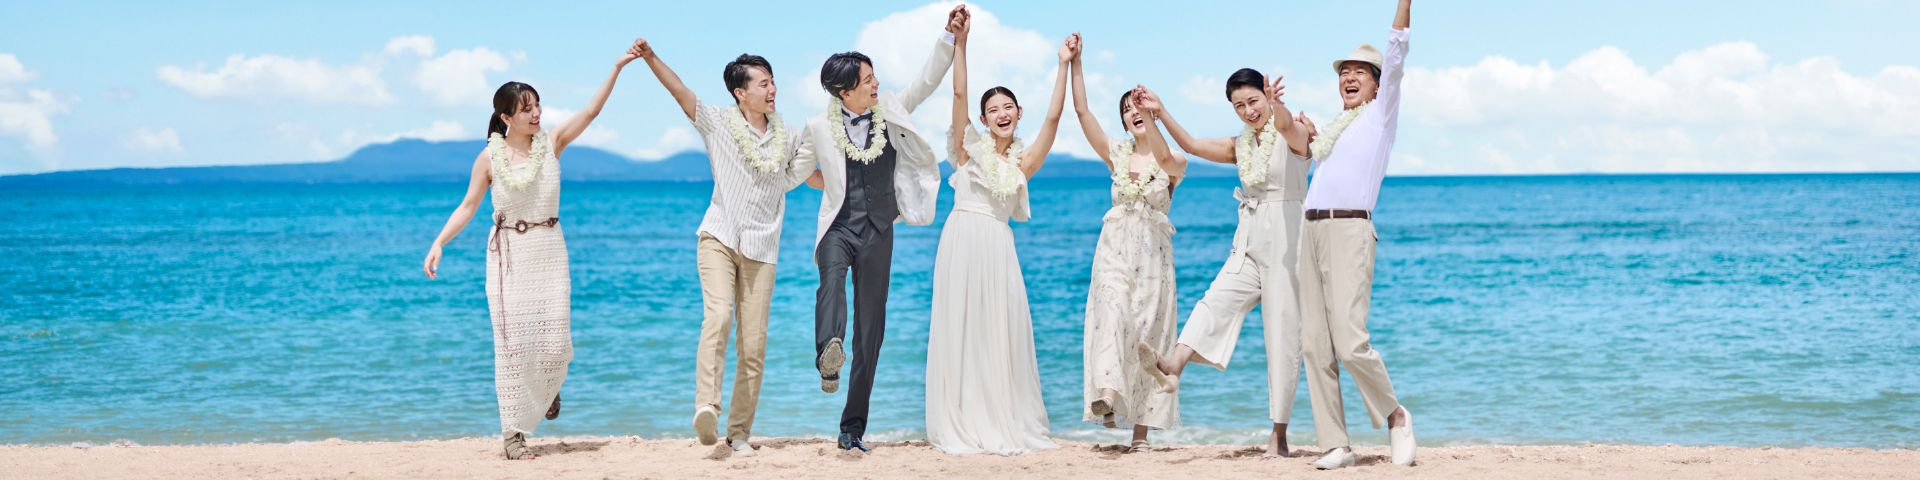
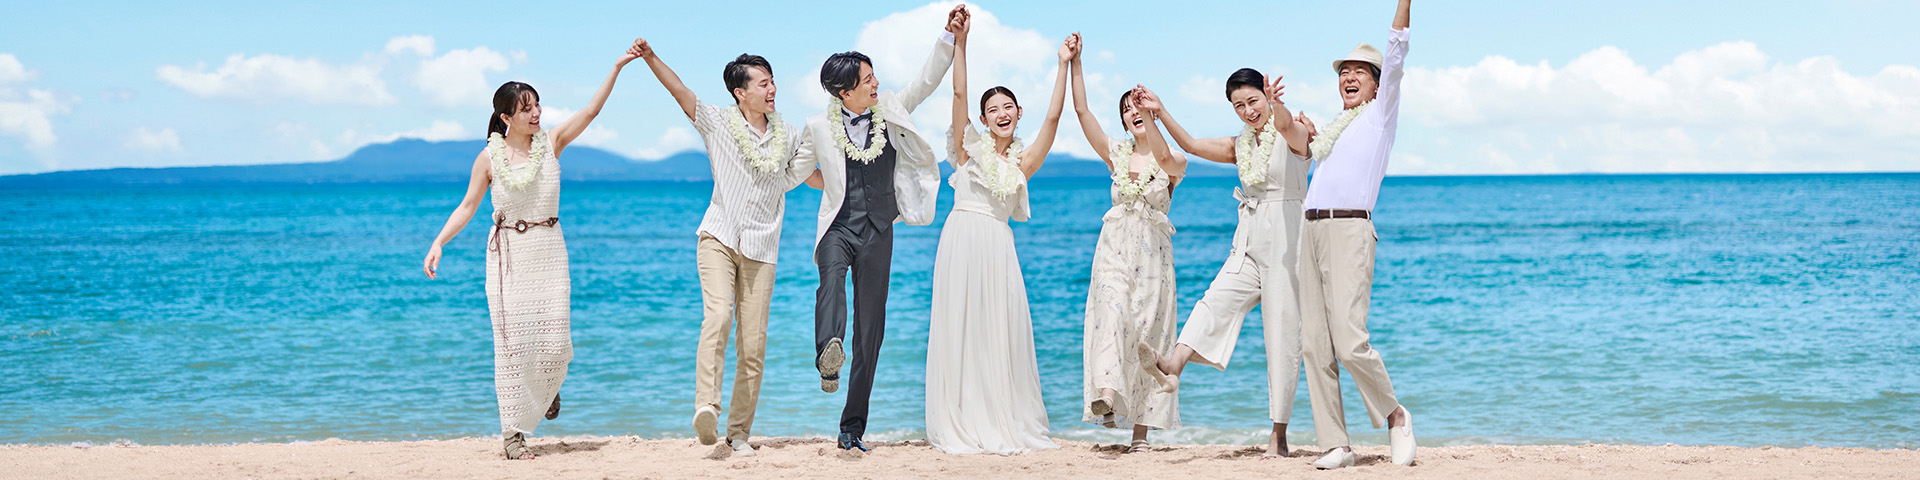
-dev：当日の過ごし方ページ 修正分

diff --git a/theme/andresortwedding-ver1.0/assets/sass/pg/_pgWeddingDay.scss b/theme/andresortwedding-ver1.0/assets/sass/pg/_pgWeddingDay.scss
@@ -971,7 +971,7 @@
             }
             &::before {
               aspect-ratio: 1 / 1;
-              background-color: $color-org-1;
+              background-color: $color-pnk-1;
               content: "";
               display: block;
               margin-top: 2.16%;
@@ -1032,7 +1032,7 @@
       }
     }
     &::before {
-      background-color: $color-org-1;
+      background-color: $color-pnk-1;
       content: "";
       display: block;
       height: 100%;
@@ -1051,6 +1051,7 @@
   }
   .schedule__notes {
     font-size: 12px;
+    font-size: clamp(0px,2.89vw,12px);
     margin-top: 48px;
     text-align: right;
     @include bp(m) {
@@ -1201,8 +1202,11 @@
         font-size: 16px;
         line-height: 1.7;
         margin-top: 12px;
+        text-align: left;
         @include bp(m) {
           font-size: 1.11vw;
+          // font-size: clamp(0px,1.11vw,16px);
+          letter-spacing: 5%;
         }
       }
       &:last-of-type {
@@ -1216,6 +1220,10 @@
   }
 }
 .pgWeddingDay__after {
+  padding-top: 0;
+  @include bp(m) {
+    padding-top: 12rem;
+  }
   &-ls {
     flex-direction: column;
     margin-top: 48px;
@@ -1284,8 +1292,11 @@
         font-size: 16px;
         line-height: 1.7;
         margin-top: 12px;
+        text-align: left;
         @include bp(m) {
           font-size: 1.11vw;
+          // font-size: clamp(0px,1.11vw,16px);
+          letter-spacing: 5%;
         }
       }
       &:last-of-type {
@@ -1383,10 +1394,14 @@
               width: auto;
             }
             p {
-              font-size: 2.89vw;
+              background-color: $color_beg-2;
+              border-radius: 1.44vw;
+              font-size: clamp(12px,2.89vw,2.89vw);
               font-weight: 600;
               text-align: center;
               @include bp(m) {
+                background-color: transparent;
+                border-radius: 0;
                 font-size: 1.11vw;
               }
             }
@@ -1413,6 +1428,11 @@
               background-image: url(../images/weddingDay/bg_comment_pc_01.png);
               margin-right: 4.42%;
               width: 78.59%;
+            }
+            br {
+              @media screen and (max-width: 379px) {
+                display: none !important;
+              }
             }
           }
           .bg-pc-2 {
@@ -1446,6 +1466,11 @@
               margin-right: 6.32%;
               width: 70.78%;
             }
+            br {
+              @media screen and (max-width: 342px) {
+                display: none !important;
+              }
+            }
           }
           .bg-pc-6 {
             @include bp(m) {
@@ -1461,12 +1486,32 @@
           @include bp(m) {
             margin-top: 3.47vw;
           }
+          .txt {
+            p {
+              margin-left: auto;
+              width: 96.5%;
+              @include bp(m) {
+                margin-left: 0;
+                width: 100%;
+              }
+            }
+          }
         }
         &__right {
           flex-direction: row-reverse;
           margin-top: 12px;
           @include bp(m) {
             margin-top: 3.47vw;
+          }
+          .txt {
+            p {
+              margin-right: auto;
+              width: 96.5%;
+              @include bp(m) {
+                margin-right: 0;
+                width: 100%;
+              }
+            }
           }
         }
       }
@@ -1519,6 +1564,7 @@
         font-size: 16px;
         line-height: 1.7;
         margin-top: 24px;
+        text-align: left;
         @include bp(m) {
           font-size: clamp(0px,1.25vw,18px);
           margin-top: 32px;
@@ -1606,18 +1652,22 @@
             width: max-content;
           }
           li {
-            align-items: center;
+            align-items: baseline;
             column-gap: 8px;
             margin-top: 8px;
+            @include bp(m) {
+              align-items: center;
+            }
             &::before {
               aspect-ratio: 1 / 1;
               background-color: black;
               content: "";
               display: block;
-              transform: rotate(45deg);
+              transform: translate(-50% , -50%) rotate(45deg);
               width: 6.73px;
               @include bp(m) {
                 max-width: 6px;
+                transform: rotate(45deg);
                 width: 0.46vw;
               }
             }
@@ -1801,9 +1851,10 @@
       font-size: 16px;
       line-height: 2;
       margin-top: 24px;
+      text-align: left;
       @include bp(m) {
-        text-align: center;
         margin-top: 0;
+        text-align: center;
       }
     }
   }

diff --git a/theme/andresortwedding-ver1.0/assets/sass/glb/_nav.scss b/theme/andresortwedding-ver1.0/assets/sass/glb/_nav.scss
@@ -505,6 +505,8 @@
                   backdrop-filter: none;
                   backdrop-filter: none;
                   background-color: rgba($color: $color_wht-1, $alpha: .05);
+                  padding: 1.16% 3.17%;
+                  width: auto;
                 }
                 &.jp {
                   font-size: clamp(0px,4.83vw,20px);
@@ -547,6 +549,11 @@
               &.area {
                 &::after {
                   background-image: url(../images/header/bg_feature_sp_03.jpg);
+                }
+              }
+              &.weddingDay {
+                &::after {
+                  background-image: url(../images/header/bg_feature_sp_04.jpg);
                 }
               }
               &:hover {

diff --git a/theme/andresortwedding-ver1.0/components/pgWeddingDay/schedule.php b/theme/andresortwedding-ver1.0/components/pgWeddingDay/schedule.php
@@ -93,8 +93,8 @@
         リゾートウェディングの当日は、朝の支度から夜のディナーまで、まる1日かけてゆったり進むのが魅力。<br/>
         朝から夜までの過ごし方を、時間を追ってご紹介します。
       </p>
-			<h2 class="pgWeddingDay_head_ttl cls-org">
-				<img src="<?php echo esc_url(get_theme_file_uri('assets/images/weddingDay/nav_icon_ring-2.svg')); ?>" alt="アイコン">
+			<h2 class="pgWeddingDay_head_ttl cls-pnk">
+				<img src="<?php echo esc_url(get_theme_file_uri('assets/images/weddingDay/nav_icon_ring.svg')); ?>" alt="アイコン">
 				<span>【早見表】<br class="sp">リゾートウェディング挙式<br class="sp">当日の運び</span>
 			</h2>
 			<p class="pgWeddingDay_head_txt">まずは挙式当日の過ごし方を、早見表でざっくりつかんでみましょう。下記はリゾートウェディングでの一般的なタイムラインです。</p>
@@ -131,7 +131,7 @@
       </ul>
     </div>
     <div class="fade-anime" data-fade="fade-up">
-      <p class="schedule__notes">※上記は一例です。挙式スタイルや会場・演出内容によって時間は変動します。</p>
+      <p class="schedule__notes">※上記は一例です。<br class="sp"/>挙式スタイルや会場・演出内容によって時間は変動します。</p>
       <p class="schedule__summary">
         近場ウェディングでは当日が3〜4時間ほどでお開きになるのに対し、リゾートウェディングは滞在中まるごとが結婚式の時間。<br/>
         <span class="sp-inline">&nbsp;</span><br class="sp"/>

diff --git a/theme/andresortwedding-ver1.0/components/pgWeddingDay/night.php b/theme/andresortwedding-ver1.0/components/pgWeddingDay/night.php
@@ -6,7 +6,7 @@
       'title-jp' => 'ハワイ',
       'title-en' => 'Hawaii',
       'catch' => '街の夜景とハワイアングルメで華やかに',
-      'lead' => '挙式後はワイキキの街へ。海沿いのレストランやライトアップされた街並みで、にぎやかな夜を満喫できます。',
+      'lead' => '挙式後はワイキキの街へ。<br class="sp"/>海沿いのレストランやライトアップされた街並みで、にぎやかな夜を満喫できます。',
       'link' => 'hawaii',
       'imgSrc' => [
         'img_night_hawaii_01.jpg',
@@ -105,8 +105,11 @@
               <?php endforeach;?>
             </ul>
           </div>
-          <p class="link">
+          <p class="link pc">
             <a href="<?php echo esc_url(home_url() . '/' . $item["link"]);?>"><span><?php echo $item["title-jp"]; ?>ウェディングの基本情報を見る</span></a>
+          </p>
+          <p class="link sp">
+            <a href="<?php echo esc_url(home_url() . '/' . $item["link"]);?>"><span><?php echo $item["title-jp"]; ?>挙式の基本情報を見る</span></a>
           </p>
         </div>
       </div>

diff --git a/theme/andresortwedding-ver1.0/components/pgWeddingDay/previous.php b/theme/andresortwedding-ver1.0/components/pgWeddingDay/previous.php
@@ -27,8 +27,7 @@
         いよいよ現地に到着！<br class="sp"/>
         挙式前日は、明日に向けてリラックスしながら過ごす大切な時間です。<br/>
         <span class="sp-inline">&nbsp;</span><br class="sp"/>
-        リゾートウェディングの会場の多くは、ホテルの敷地内に併設されています。<br class="sp"/>
-        そのため、宿泊先のホテルでそのまま準備を進めるのが一般的です。        
+        リゾートウェディングの会場の多くは、ホテルの敷地内に併設されています。<br class="sp"/>そのため、宿泊先のホテルでそのまま準備を進めるのが一般的です。        
 			</p>
 		</div>
     <div class="pgWeddingDay__previous-contents">

diff --git a/theme/andresortwedding-ver1.0/components/parts/feature.php b/theme/andresortwedding-ver1.0/components/parts/feature.php
@@ -13,6 +13,10 @@
       'link' => 'area',
     ],
     [
+      'src' => 'img_feature_04.jpg',
+      'link' => 'weddingday',
+    ],
+    [
       'src' => 'img_feature_01.jpg',
       'link' => 'compare',
     ],
@@ -23,6 +27,10 @@
     [
       'src' => 'img_feature_03.jpg',
       'link' => 'area',
+    ],
+    [
+      'src' => 'img_feature_04.jpg',
+      'link' => 'weddingday',
     ],
   ];
   $counter = 1;

diff --git a/theme/andresortwedding-ver1.0/components/header/menu.php b/theme/andresortwedding-ver1.0/components/header/menu.php
@@ -122,6 +122,11 @@
             <p class="jp ft-wht-1">人気エリア徹底比較</p>
           </a>
         </li>
+        <li class="submenu__ls-feature">
+          <a class="weddingDay" href="<?php echo esc_url(home_url());?>/weddingday/">
+            <p class="jp ft-wht-1">当日のスケジュール</p>
+          </a>
+        </li>
       </ul>
     </div>
   </li>
